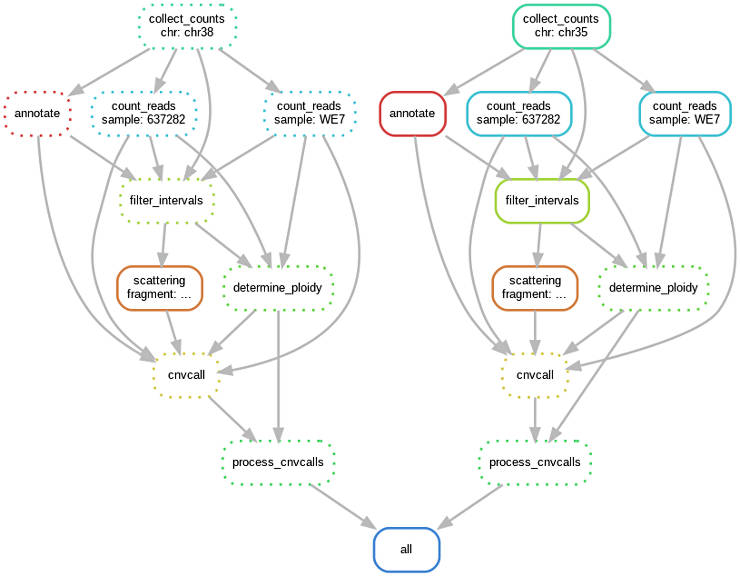
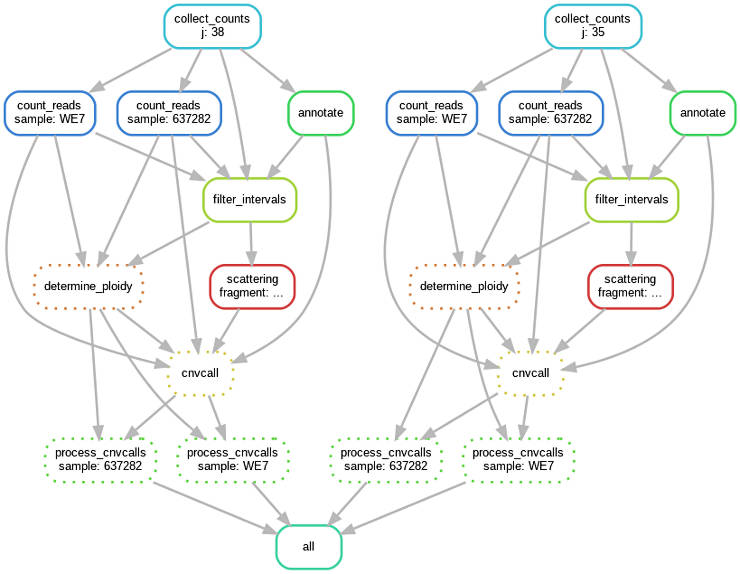
updated _posts/2019-08-15-gatk-cnv-snakemake.md

diff --git a/_posts/2019-08-15-gatk-cnv-snakemake.md b/_posts/2019-08-15-gatk-cnv-snakemake.md
@@ -58,8 +58,8 @@ gatk --java-options "-Xmx8G" CollectReadCounts \
 -R canFam3.fa \
 -imr OVERLAPPING_ONLY \
 -L interval_chr35.interval_list \
--I samle1.bam \
--O samle1_chr35.hdf5
+-I sample1.bam \
+-O sample1_chr35.hdf5
 ```
 `OVERLAPPING_ONLY` prevents the merging of abutting intervals as recommended by the GATK team.
 
@@ -91,8 +91,8 @@ Annotated intervals are then filtered based on tunable thresholds:
 gatk --java-options "-Xmx8G" FilterIntervals \
 -L interval_chr35.interval_list \
 --annotated-intervals annotated_intervals_chr35.tsv \
--I samle1_chr35.hdf5 \
--I samle2_chr35.hdf5 \
+-I sample1_chr35.hdf5 \
+-I sample2_chr35.hdf5 \
 --minimum-gc-content 0.1 \
 --maximum-gc-content 0.9 \
 --minimum-mappability 0.9 \
@@ -115,8 +115,8 @@ This step is needed to generate global baseline coverage and noise data for the 
 ```
 gatk --java-options "-Xmx8G" DetermineGermlineContigPloidy \
 -L interval_chr35.interval_list \
--I samle1_chr35.hdf5 \
--I samle2_chr35.hdf5 \
+-I sample1_chr35.hdf5 \
+-I sample2_chr35.hdf5 \
 --contig-ploidy-priors ploidy_priors.tsv \
 --output-prefix  dog \
 --interval-merging-rule OVERLAPPING_ONLY \
@@ -155,8 +155,8 @@ This step detects both rare and common CNVs on a scattered shard:
 gatk --java-options "-Xmx8G" GermlineCNVCaller  \
 --run-mode COHORT \
 -L scatter_chr35/fragment/scattered.interval_list \
--I samle1_chr35.hdf5 \
--I samle2_chr35.hdf5 \
+-I sample1_chr35.hdf5 \
+-I sample2_chr35.hdf5 \
 --contig-ploidy-calls ploidy-calls_chr35/dogs-calls \
 --annotated-intervals annotated_intervals_chr35.tsv \
 --output-prefix fragment \
@@ -170,19 +170,25 @@ To increase the sensitivity of calls, you need to fine-tune different parameters
 
 ### Call copy number segments
 
-This step collects the results from scattered shards and calls copy number state per-interval and per-segment in the VCF format:
+This step collects the results from scattered shards and calls copy number state per sample for intervals and segments in the VCF format:
 
 ```
 gatk --java-options "-Xmx8G" PostprocessGermlineCNVCalls \
---model-shard-path {params.modelfiles} \
---calls-shard-path {params.callsfiles} \
---sequence-dictionary {input.dict} \
+--model-shard-path cohort-calls_chr35/frag_temp_0001_of_3-model \
+--model-shard-path cohort-calls_chr35/frag_temp_0002_of_3-model \
+--model-shard-path cohort-calls_chr35/frag_temp_0003_of_3-model \
+--calls-shard-path cohort-calls_chr35/frag_temp_0001_of_3-calls \
+--calls-shard-path cohort-calls_chr35/frag_temp_0002_of_3-calls \
+--calls-shard-path cohort-calls_chr35/frag_temp_0003_of_3-calls \
+--sequence-dictionary '/path/to/reference/canFam3.dict' \
 --allosomal-contig chrX \
---contig-ploidy-calls {input.ploidy}/dogs-calls \
+--contig-ploidy-calls ploidy-calls_chr35/dogs-calls \
 --sample-index 0 \
---output-genotyped-intervals  {output.intervals} \
---output-genotyped-segments  {output.segments}
+--output-genotyped-intervals  chr35_sample1_intervals_cohort.vcf.gz \
+--output-genotyped-segments  chr35_sample1_segments_cohort.vcf.gz
 ```
+
+You need to provide a sample index with `--sample-index`. The first sample in your input list has index 0, the second one is 1, etc.
 
 Here is an example of genotyped-segments in VCF:
 
@@ -207,11 +213,14 @@ CHRN = list(range(1, 39))
 CHRN.append('X')
 CHR = CHRN
 REF = '/path/to/reference/canFam3.fa'
+DICT = '/path/to/reference/canFam3.dict'
+MAP = 'canFam3_mappability_150.merged.bed.gz'
+SEGDUP = 'segmental_duplication.bed.gz'
 
 rule all:
     input:
-        expand('chr{j}_intervals_cohort.vcf.gz', j=CHR),
-        expand('chr{j}_segments_cohort.vcf.gz', j=CHR)
+        expand('chr{j}_{sample}_intervals_cohort.vcf.gz', j=CHR, sample=SAMPLES),
+        expand('chr{j}_{sample}_segments_cohort.vcf.gz', j=CHR, sample=SAMPLES)
 
 rule collect_counts:
     input:
@@ -235,7 +244,8 @@ rule count_reads:
         ref = REF,
         bam = '{sample}_merged_markDupl_BQSR.bam',
         interval = 'interval_chr{j}.interval_list'
-    output: '{sample}_chr{j}.hdf5'
+    output:
+        '{sample}_chr{j}.hdf5'
     shell:
         '''
         gatk --java-options "-Xmx8G" CollectReadCounts \
@@ -250,9 +260,10 @@ rule annotate:
     input:
         ref = REF,
         interval = 'interval_chr{j}.interval_list',
-        mappability = 'canFam3_mappability_150.merged.bed.gz',
-        segduplication = 'segmental_duplication.bed.gz'
-    output: 'annotated_intervals_chr{j}.tsv'
+        mappability = MAP,
+        segduplication = SEGDUP
+    output:
+        'annotated_intervals_chr{j}.tsv'
     shell:
         '''
         gatk --java-options "-Xmx8G" AnnotateIntervals \
@@ -269,7 +280,8 @@ rule filter_intervals:
         interval = 'interval_chr{j}.interval_list',
         annotated = 'annotated_intervals_chr{j}.tsv',
         samples = expand('{sample}_{chromosome}.hdf5', sample=SAMPLES, chromosome='chr{j}'),
-    output: 'gcfiltered_chr{j}.interval_list'
+    output:
+        'gcfiltered_chr{j}.interval_list'
     params:
         files = lambda wildcards, input: ' -I '.join(input.samples)
     shell:
@@ -290,7 +302,8 @@ rule determine_ploidy:
     params:
         prefix = 'dogs',
         files = lambda wildcards, input: ' -I '.join(input.samples)
-    output: 'ploidy-calls_chr{j}'
+    output:
+        'ploidy-calls_chr{j}'
     shell:
         '''
         gatk --java-options "-Xmx8G" DetermineGermlineContigPloidy \
@@ -345,16 +358,21 @@ rule cnvcall:
         -O {params.outdir}
         '''
 
+def sampleindex(sample):
+    index = SAMPLES.index(sample)
+    return index
+
 rule process_cnvcalls:
     input:
         model = dynamic("cohort-calls_chr{j}/frag_{fragment}-model"),
         calls = dynamic("cohort-calls_chr{j}/frag_{fragment}-calls"),
-        dict  = '/mnt/data400/reference/canFam3.dict',
+        dict  = DICT,
         ploidy = 'ploidy-calls_chr{j}'
     output:
-        intervals = 'chr{j}_intervals_cohort.vcf.gz',
-        segments = 'chr{j}_segments_cohort.vcf.gz'
+        intervals = 'chr{j}_{sample}_intervals_cohort.vcf.gz',
+        segments = 'chr{j}_{sample}_segments_cohort.vcf.gz'
     params:
+        index = lambda wildcards: sampleindex(wildcards.sample),
         modelfiles = lambda wildcards, input: " --model-shard-path ".join(input.model),
         callsfiles = lambda wildcards, input: " --calls-shard-path ".join(input.calls)
     shell:
@@ -365,7 +383,7 @@ rule process_cnvcalls:
         --sequence-dictionary {input.dict} \
         --allosomal-contig chrX \
         --contig-ploidy-calls {input.ploidy}/dogs-calls \
-        --sample-index 0 \
+        --sample-index {params.index} \
         --output-genotyped-intervals  {output.intervals} \
         --output-genotyped-segments  {output.segments}
         '''
